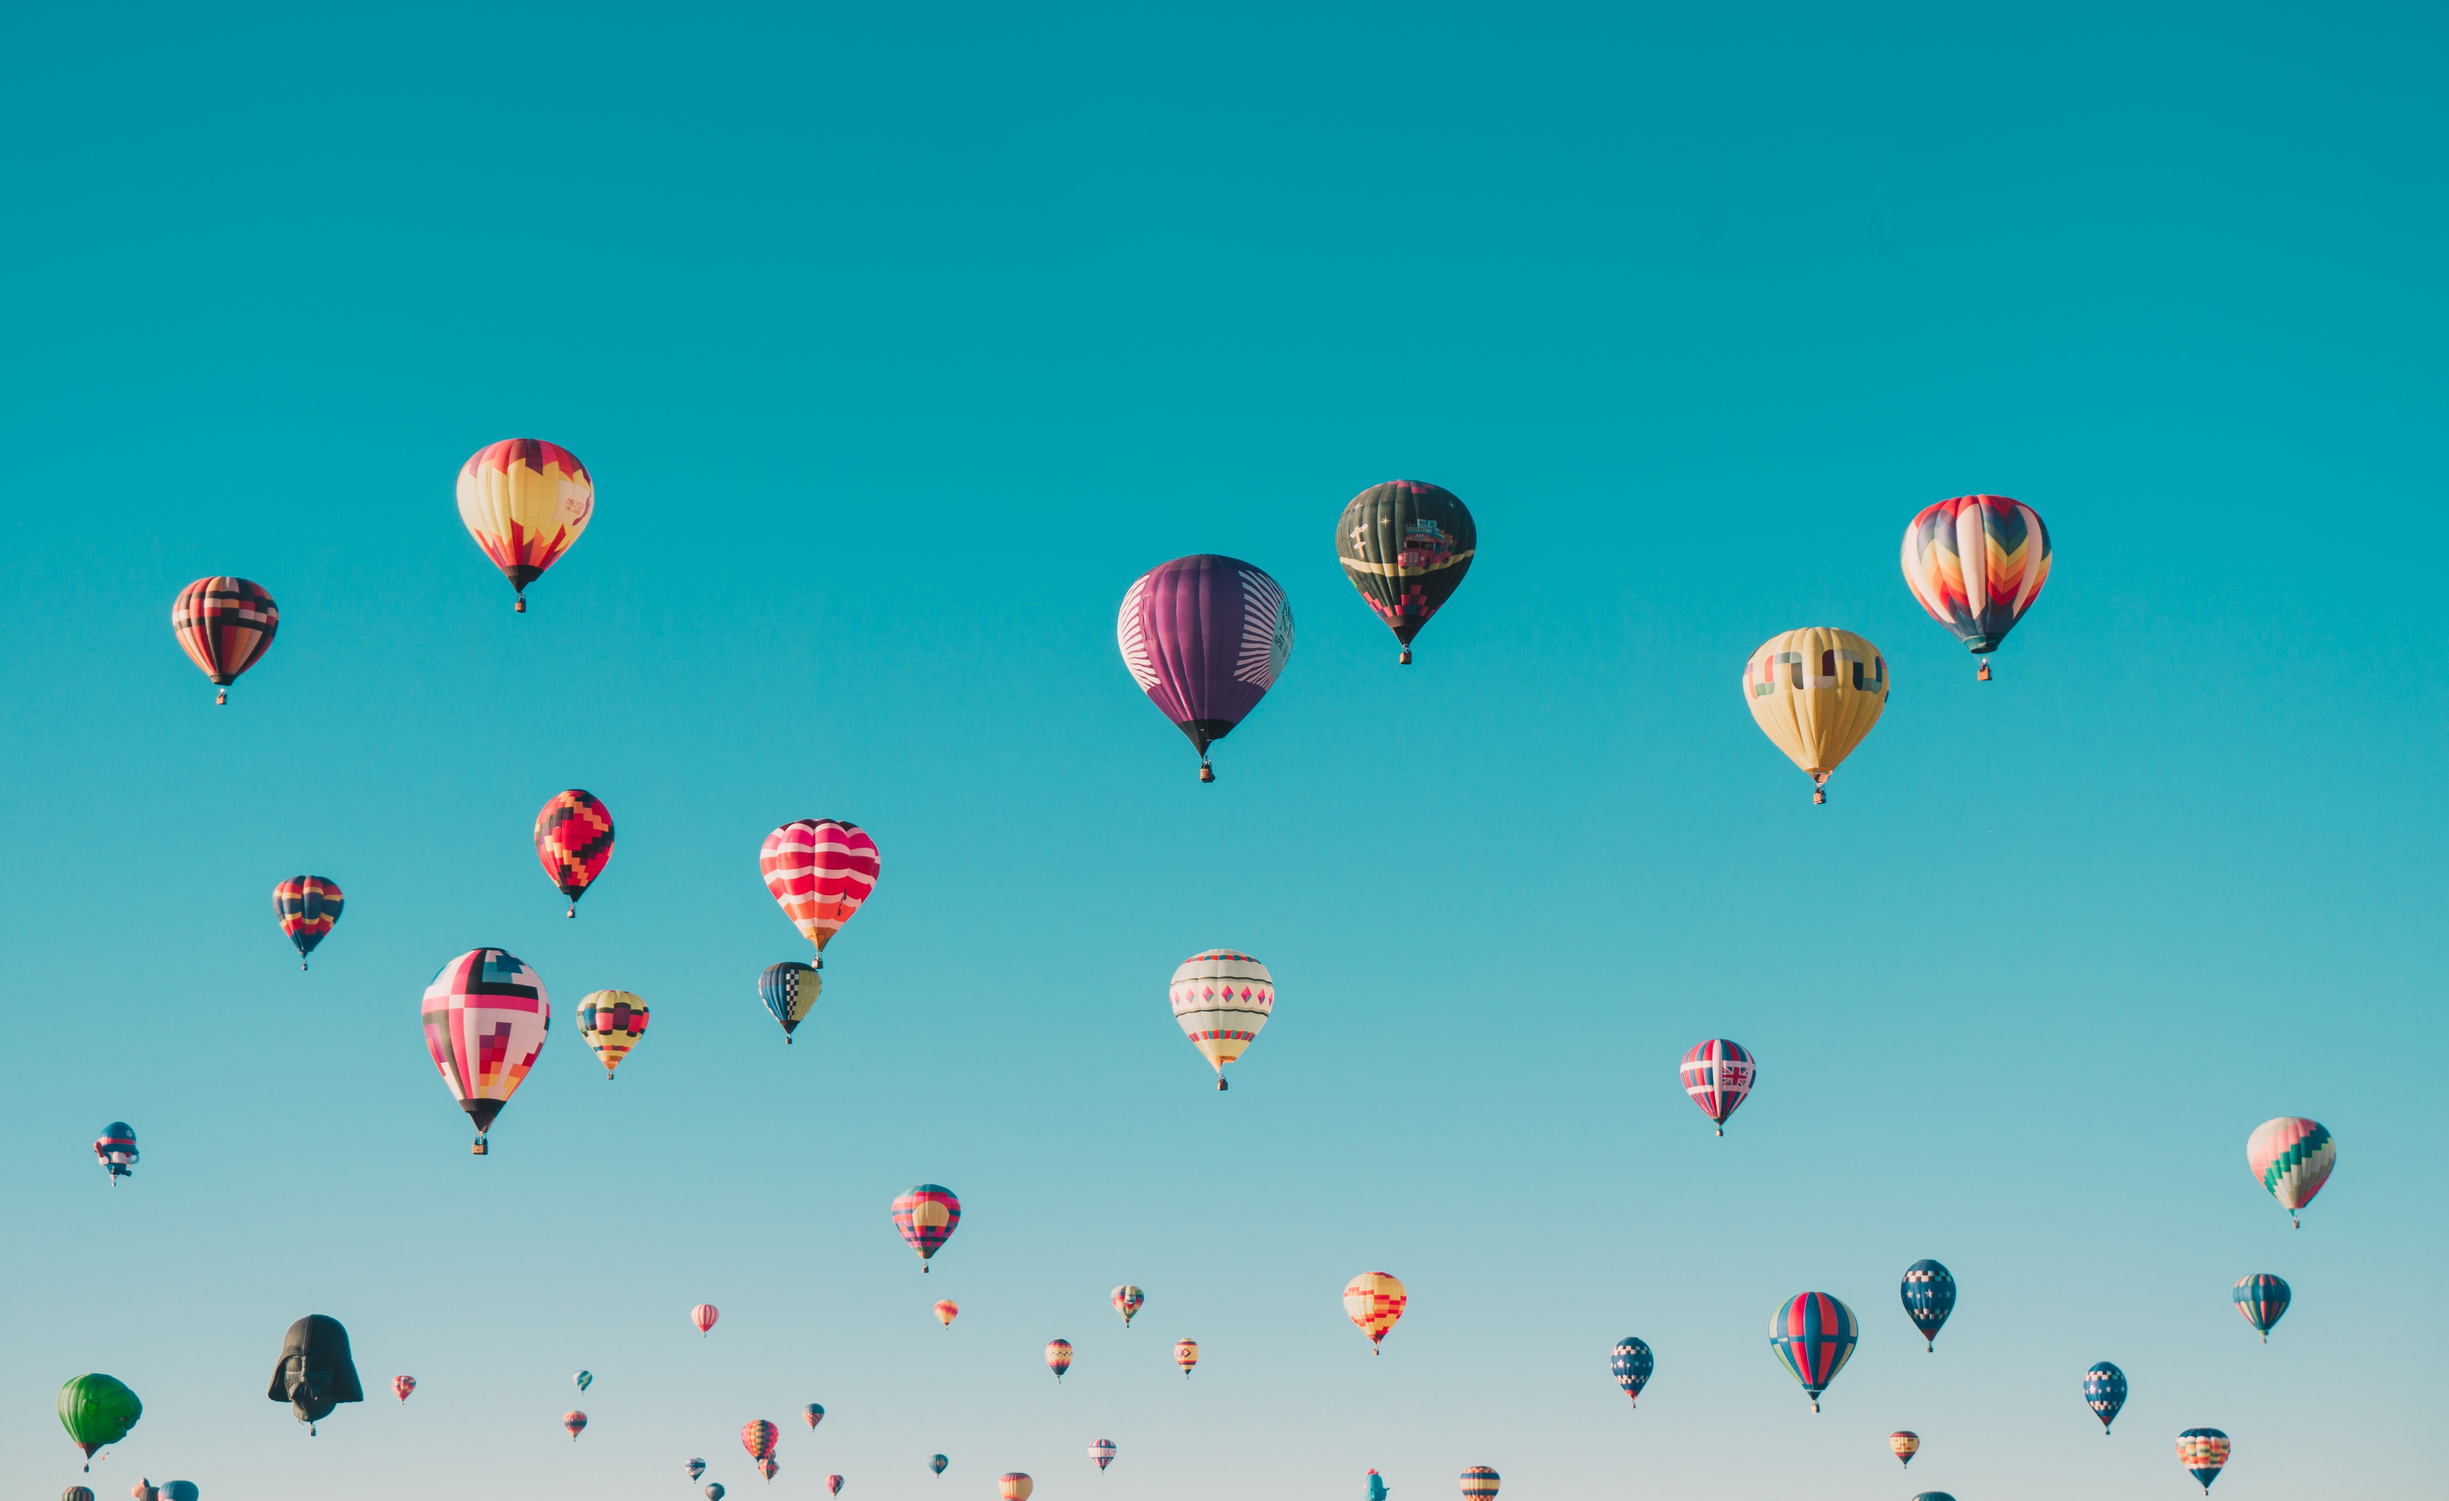
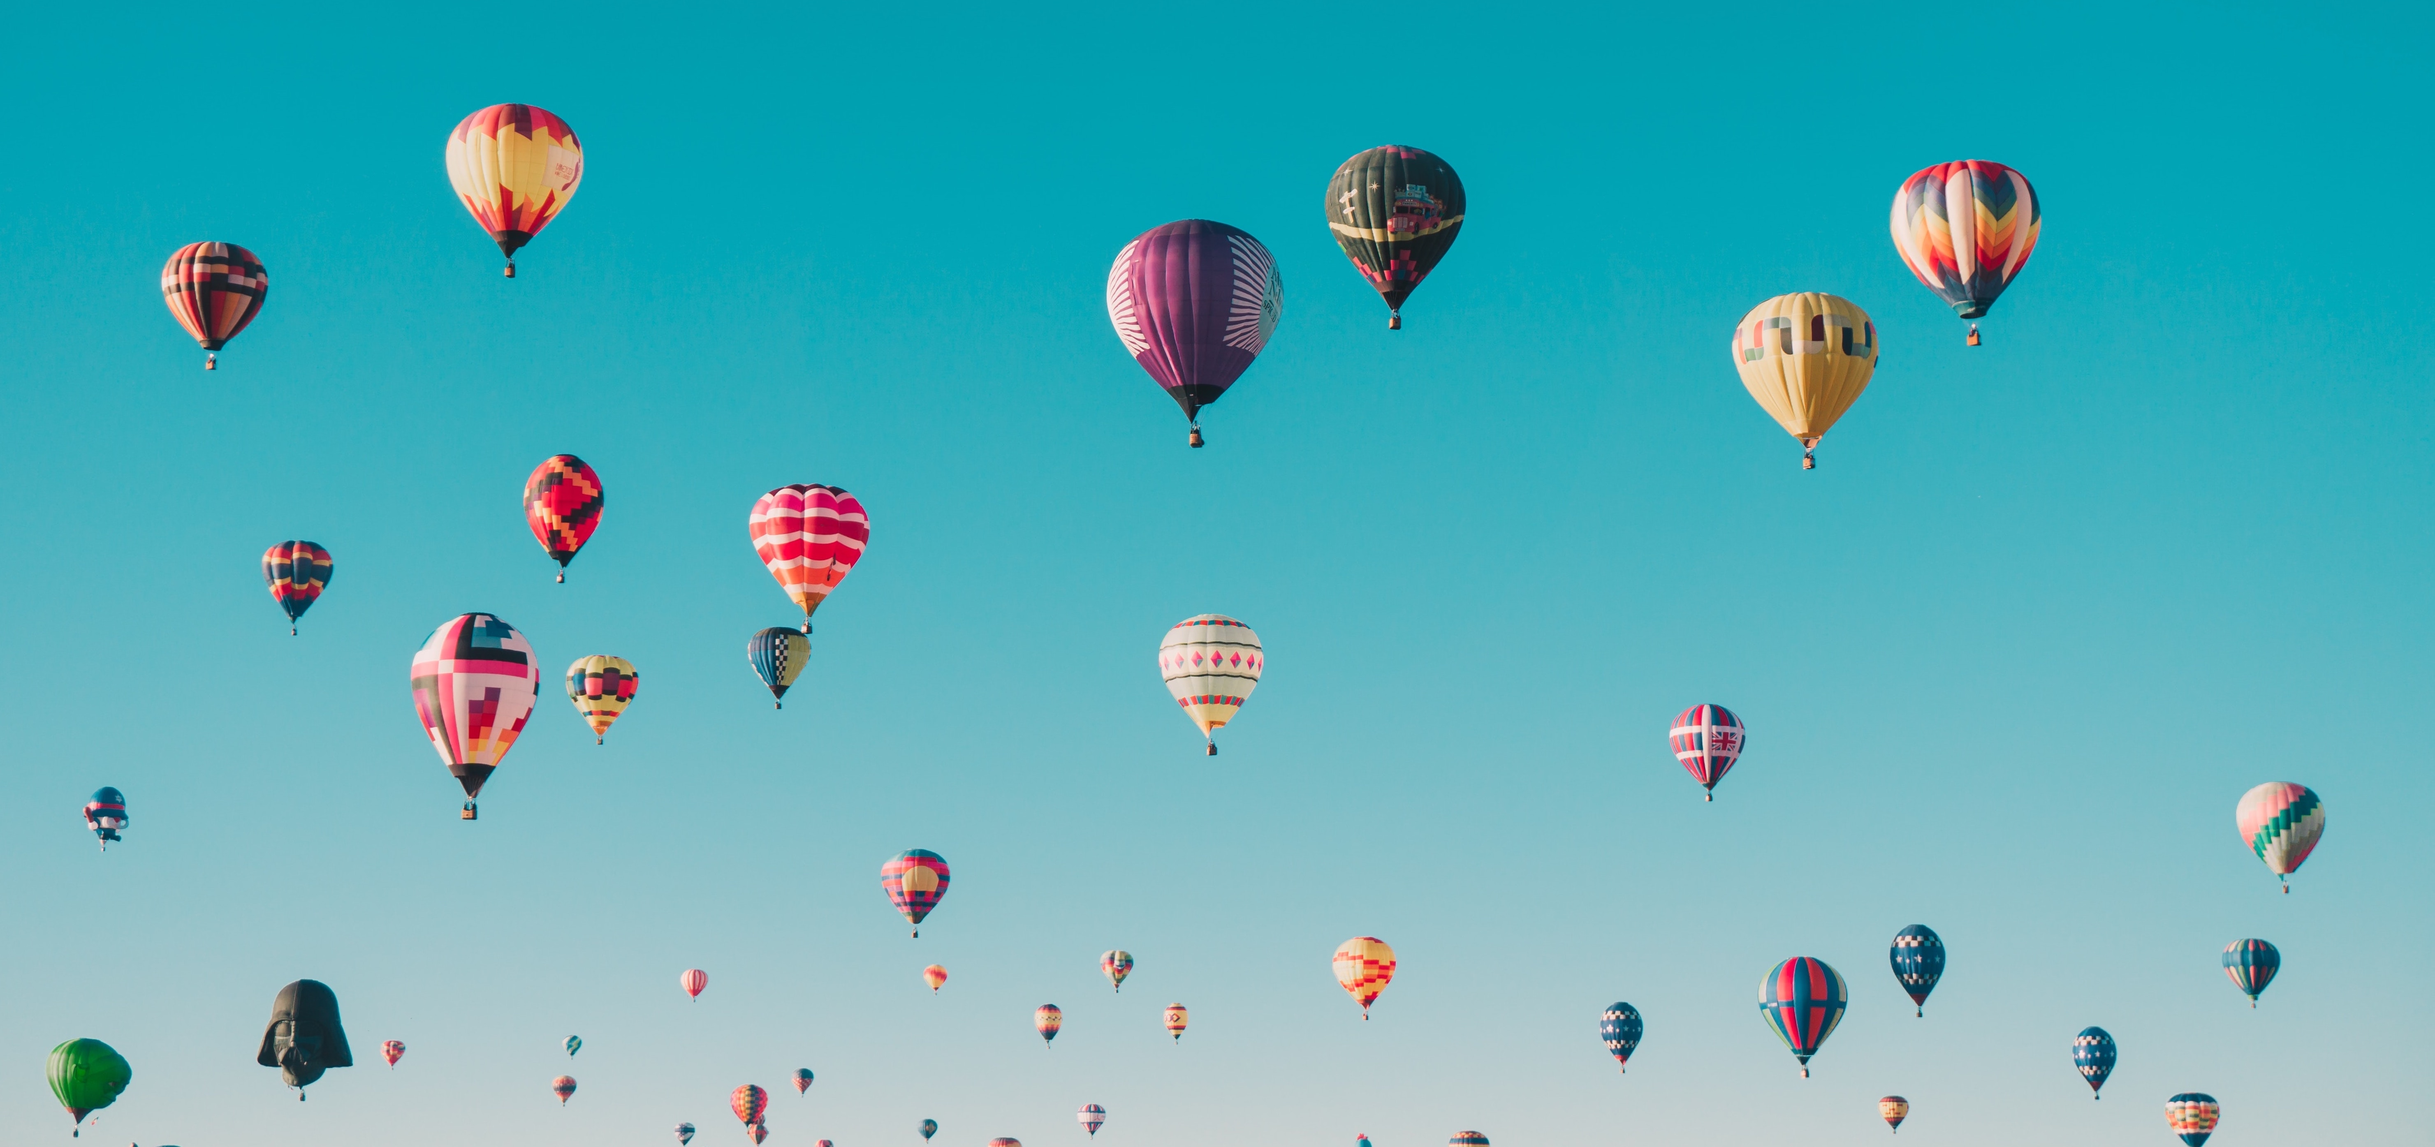
ビューの修正（トップ画面）

diff --git a/app/assets/stylesheets/posts/index.css b/app/assets/stylesheets/posts/index.css
@@ -1,14 +1,13 @@
 /**セカンドヘッダー**/
 .header_contents{
   background-image: url("/images/image9.jpg");
-  background-repeat: no-repeat;
   background-size: cover;
-  height: 600px;
-  min-width: 100vw;
+  height: 85vh;
   display: flex;
   flex-direction: column;
   justify-content: center;
   align-items: center;
+  padding-top: 30px;
 }
 
 .subtitle {
@@ -34,18 +33,12 @@
 /**検索バー**/
 .search-bar {
   text-align: center;
-  width: 800px;
   height: auto;
   margin-top: 20px;
 }
 
-.top-search-form {
-  width: 800px;
-  padding-bottom: 0;
-}
-
 .top-input-box {
-  width: 600px;
+  width: 40vw;
   height: 30px;
   border-radius: 5px;
   border: solid 1px;
@@ -53,7 +46,7 @@
 }
 
 .top-search-send {
-  width: 200px;
+  width: 20vw;
   margin-top: 30px;
 }
 
@@ -63,15 +56,21 @@
 
 /**投稿一覧**/
 .posts_main {
+  height: auto;
   background-color: #e6f0f0;
-  height: 100%;
 }
 
 .posts_lists {
+  width: 100vw;
   display: grid;
   grid-template-columns: 1fr 1fr 1fr;
-  gap: 10px;
   padding: 50px 0;
+}
+
+@media (max-width: 768px) {
+  .posts_lists {
+    grid-template-columns: 1fr;
+  }
 }
 
 .post_list {
